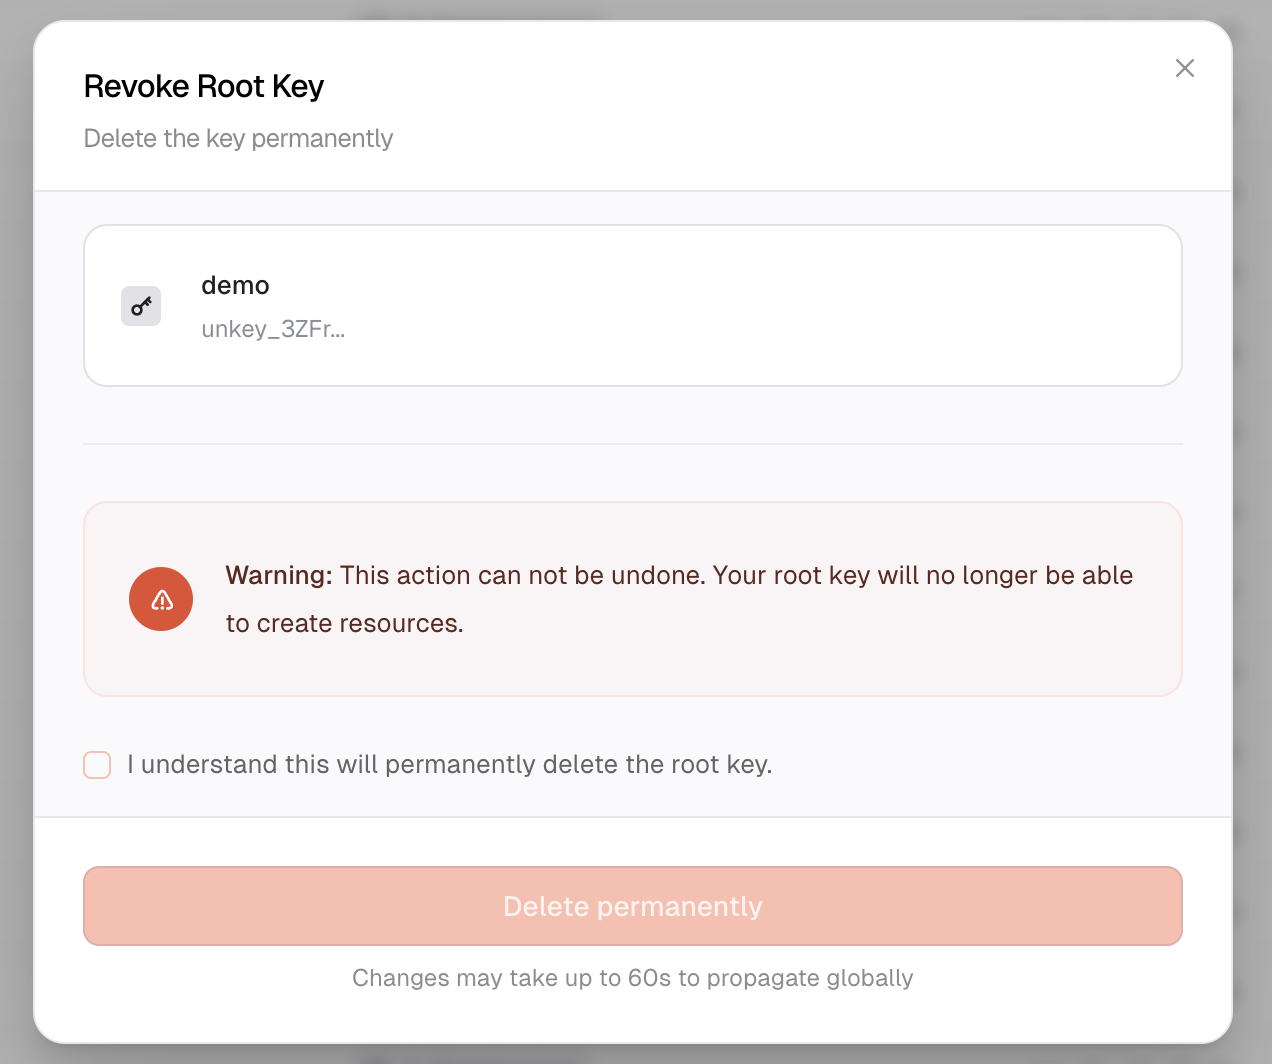
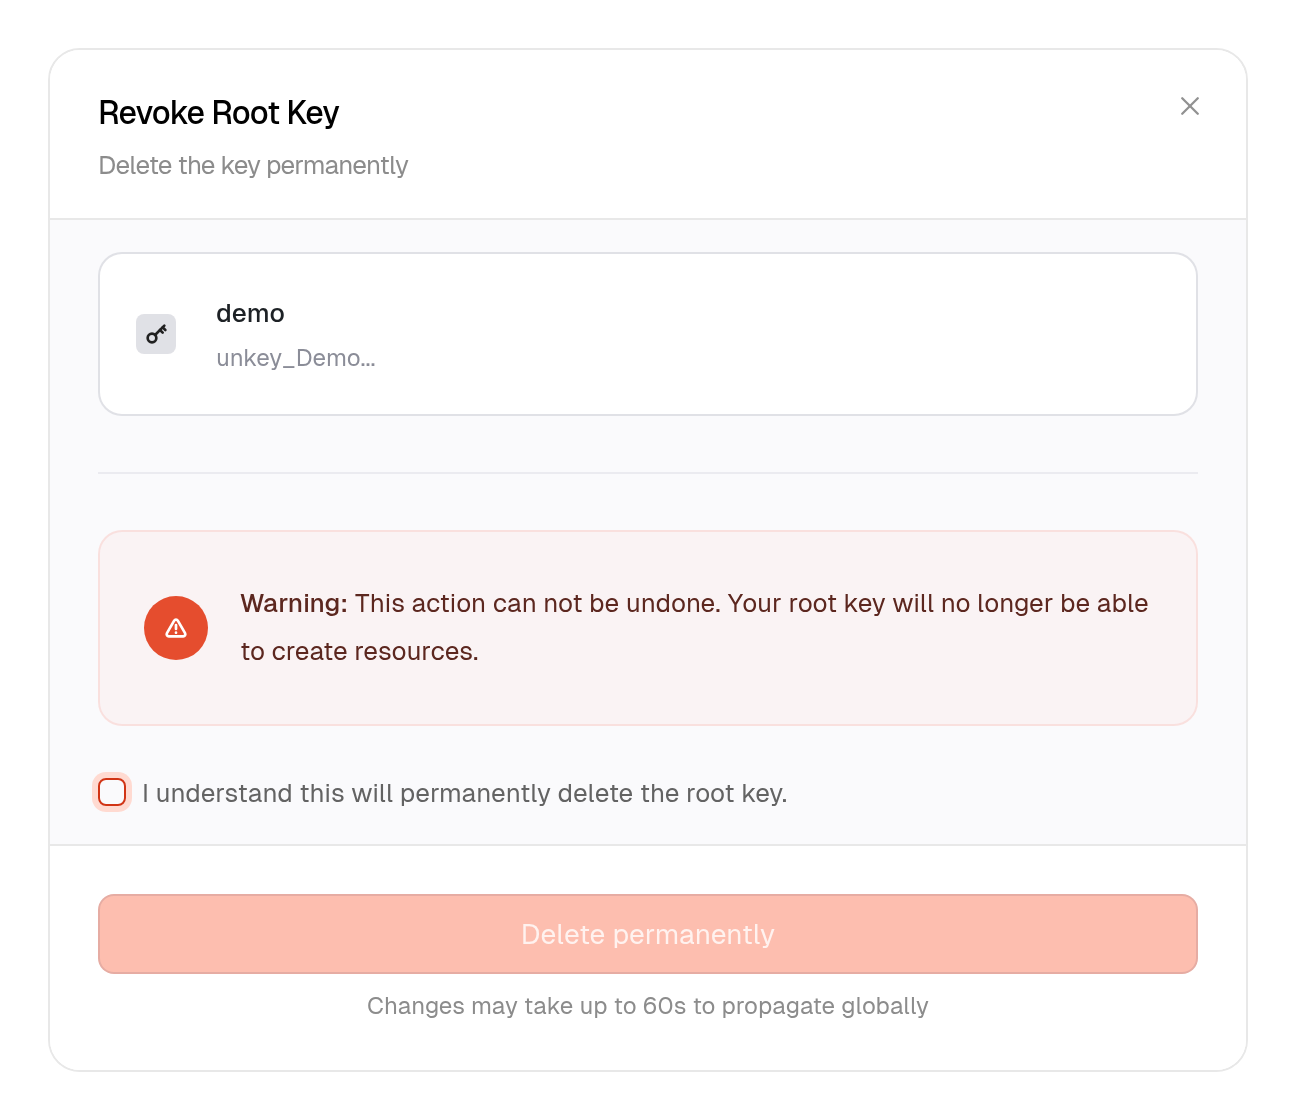
docs: capture dialogs with transparent backgrounds and no outer shadows
Amp-Thread-ID: https://ampcode.com/threads/T-01a08b8d-51ef-7539-b115-fe9efe34ff90

diff --git a/.agents/skills/refreshing-docs-screenshots/SKILL.md b/.agents/skills/refreshing-docs-screenshots/SKILL.md
@@ -127,7 +127,8 @@ For each declaration:
    it and its `capturedAt` unchanged.
 7. Capture both light and dark variants before replacing either. Switch themes
    through the app or its supported system-theme behavior. Do not recolor an
-   image or alter application CSS to fabricate a state.
+   image or alter application CSS to fabricate a state. For isolated dialogs,
+   use the capture-only adjustments below.
 8. Inspect both captures with the media tool. Check the intended content, crop,
    readability, theme, and absence of secrets. Keep the existing pair if either
    capture fails. Do not make docs prose agree with a wrong screenshot.
@@ -138,6 +139,36 @@ For each declaration:
 Save review images in `.amp/in/artifacts/` in an orb. Keep temporary comparison
 files elsewhere and remove them when finished. Do not use image generation for
 dashboard screenshots.
+
+### Capture isolated dialogs
+
+For dialog `target` captures, use a transparent PNG without outer shadows and
+24 CSS pixels of transparent padding on each side. If the description explicitly
+needs the surrounding dashboard, retain that context instead. Do not apply this
+treatment to `viewport` or `full-page` captures.
+
+- Record the target's bounds and original inline styles before changing anything.
+  Keep the real target in place. Temporarily hide surrounding sibling branches
+  and clear ancestor backgrounds without changing layout. Include portaled
+  overlays and ancestor pseudo-elements when they paint behind the target.
+- Remove only the target's outer `box-shadow` and `drop-shadow()` filters for
+  capture. Preserve other filters, child control shadows, borders, background,
+  and the target's actual corner radius. Never add a fixed radius in docs.
+- Capture with the browser's transparent background option. Clearing HTML and
+  body backgrounds alone does not make a PNG transparent. If the browser CLI
+  lacks this option, use its existing Chromium CDP connection with
+  `Emulation.setDefaultBackgroundColorOverride` (alpha 0) and
+  `Page.captureScreenshot`. Confirm the PNG dimensions are twice the padded
+  CSS bounds; device scale alone may not set the CDP clip scale.
+- Restore every changed style and the browser background override in `finally`,
+  including on failure. Confirm the target's bounds and appearance are restored.
+- Check that exterior pixels have alpha 0 and no shadow remains. Inspect both
+  themes over the real docs frame, not only in an image viewer that may display
+  transparency as black. Keep `width` at the target's CSS width plus 48 pixels.
+
+If isolation changes layout, content, or the target's appearance beyond removing
+its outer shadows, report the capture as blocked. Do not flatten the image onto
+a solid color or use background-removal image processing to hide a failed capture.
 
 ## Verify and report
 
